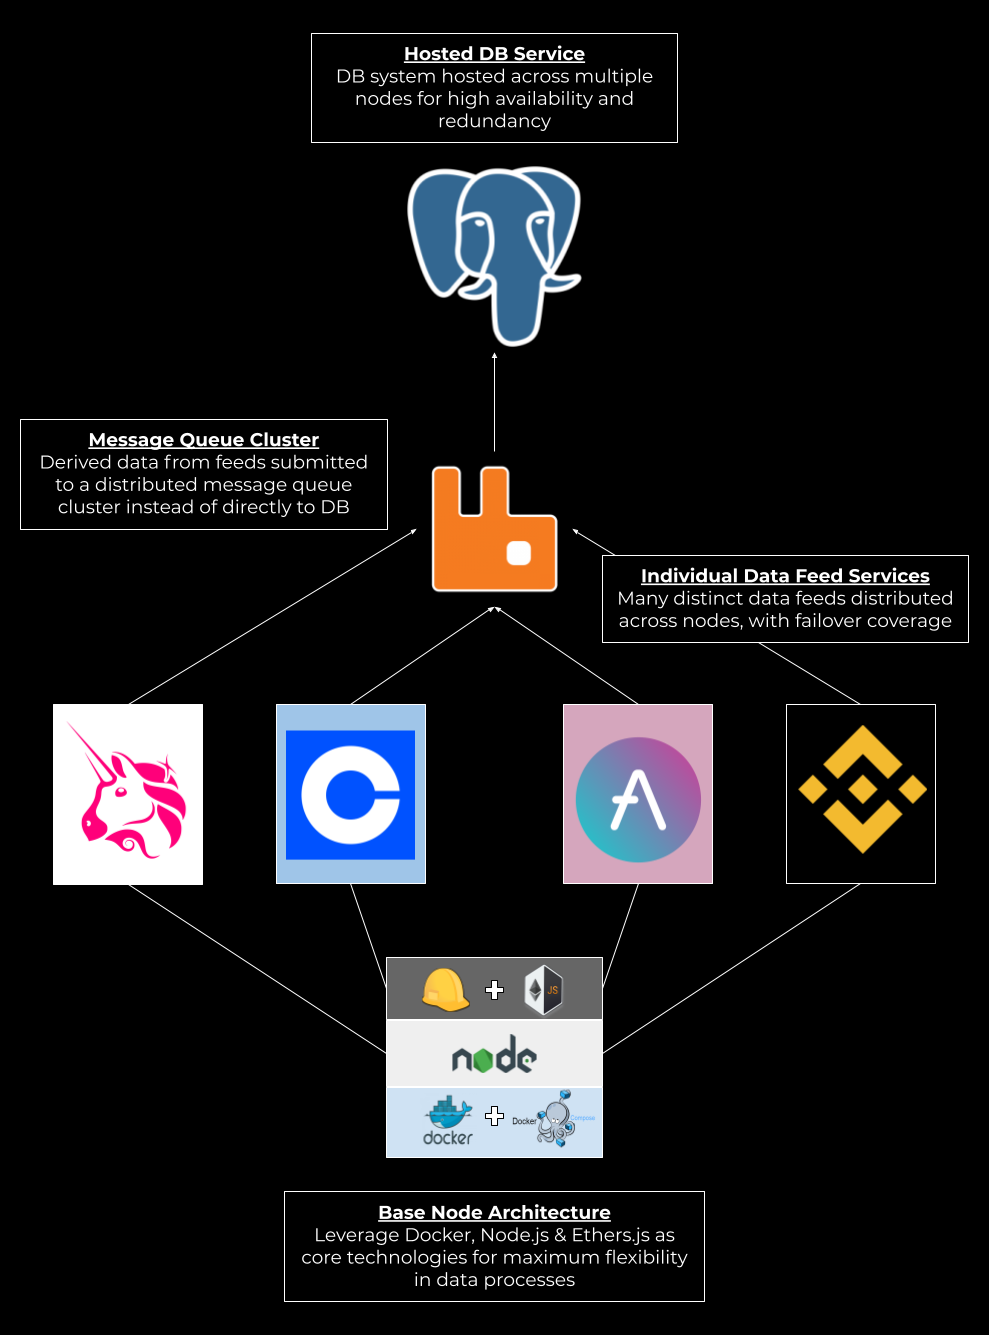
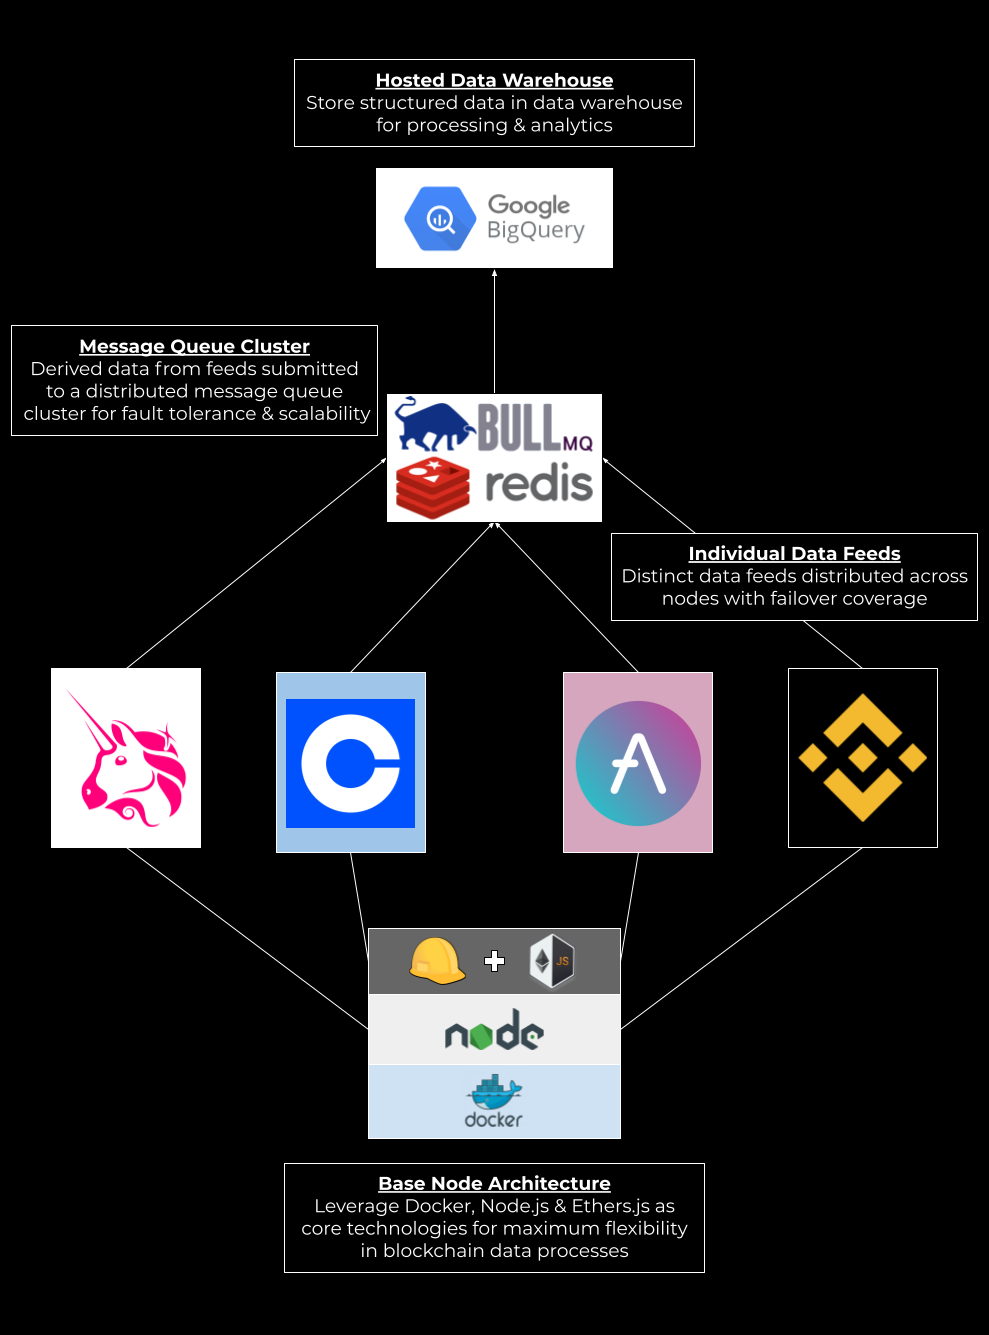
main

diff --git a/src/test/db.test.js b/src/test/db.test.js
@@ -9,9 +9,7 @@ const TEST_ADDRESS = '1'
 
 beforeAll(async() => {
     await db.TokenObservation.destroy({
-        'where': {
-            'address': TEST_ADDRESS
-        }
+        'where': {'address': TEST_ADDRESS}
     })
 })
 
@@ -40,9 +38,7 @@ test('Create TokenObservations', async() => {
 test('Get TokenObservations', async() => {
     expect.assertions(31);
     const observations = await db.TokenObservation.findAll({
-        'where': {
-            'address': TEST_ADDRESS
-        },
+        'where': {'address': TEST_ADDRESS},
         'raw': true
     })
     expect(observations.length).toEqual(10)
@@ -56,14 +52,10 @@ test('Get TokenObservations', async() => {
 test('Delete TokenObservations', async() => {
     expect.assertions(1)
     await db.TokenObservation.destroy({
-        'where': {
-            'address': TEST_ADDRESS
-        },
+        'where': {'address': TEST_ADDRESS},
     })
     const observations = await db.TokenObservation.findAll({
-        'where': {
-            'address': TEST_ADDRESS
-        },
+        'where': {'address': TEST_ADDRESS},
         'raw': true
     })
     expect(observations.length).toEqual(0)

diff --git a/src/test/uniswap.test.js b/src/test/uniswap.test.js
@@ -12,9 +12,7 @@ const TEST_ADDRESS = '2'
 
 beforeAll(async() => {
     await db.TokenObservation.destroy({
-        'where': {
-            'address': TEST_ADDRESS
-        }
+        'where': {'address': TEST_ADDRESS}
     })
 })
 
@@ -59,8 +57,6 @@ test('getTokenLiquidityAndVolume', async() => {
 
 afterAll(async() => {
     await db.TokenObservation.destroy({
-        'where': {
-            'address': TEST_ADDRESS
-        }
+        'where': {'address': TEST_ADDRESS}
     })
 })

diff --git a/README.md b/README.md
@@ -141,8 +141,12 @@ By supporting many different data feeds on the same machine, the single-host arc
 ### Distributed Architecture
 ![Distributed Design](distributed_design.png)
 
-In the distributed architecture, all individual components are decoupled into their own services across various nodes. This architecture could be built using a multi-host container orchestration service such as Kubernetes or Docker Swarm. 
+In the distributed architecture, all individual components are decoupled into their own services across various nodes. Each data feed is run on its own node as a standalone container, eliminating the need for `docker-compose` on the node itself. Building and coordinating the various nodes could be accomplished using a multi-host container orchestration service such as Kubernetes or Docker Swarm. 
 
-An additional key feature in this architecture is the message queue service (RabbitMQ in this example). Message queue architectures are especially powerful for data platforms due to their scalability and flexibility. Among other things, a message queue allows horizontal scalability, asynchronous execution of tasks such as writing data to a database, and, in the case of task failure, automatic retries with exponential backoff.
+The RDBMS system (PostgreSQL) is replaced with a hosted data warehouse service, such as Google BigQuery. This type of storage lends itself to better scalability for big data. 
+
+An additional key feature in this architecture is the message queue cluster (BullMQ + Redis) sitting between the data feeds and the data warehouse. Instead of writing the datapoints directly to the data storage service, the feeds submit messages containing the data to the cluster to offload the work.
+
+Message queue architectures are especially powerful for data platforms due to their scalability and flexibility. Among the many benefits, a message queue easily enables horizontal scalability, asynchronous execution of tasks, and, in the case of task failure, automatic retries with exponential backoff. Computational and I/O work can be effectively offloaded to worker nodes while the data feed nodes can focus on ingesting the feeds.
 
 The distributed architecture is built to scale.
